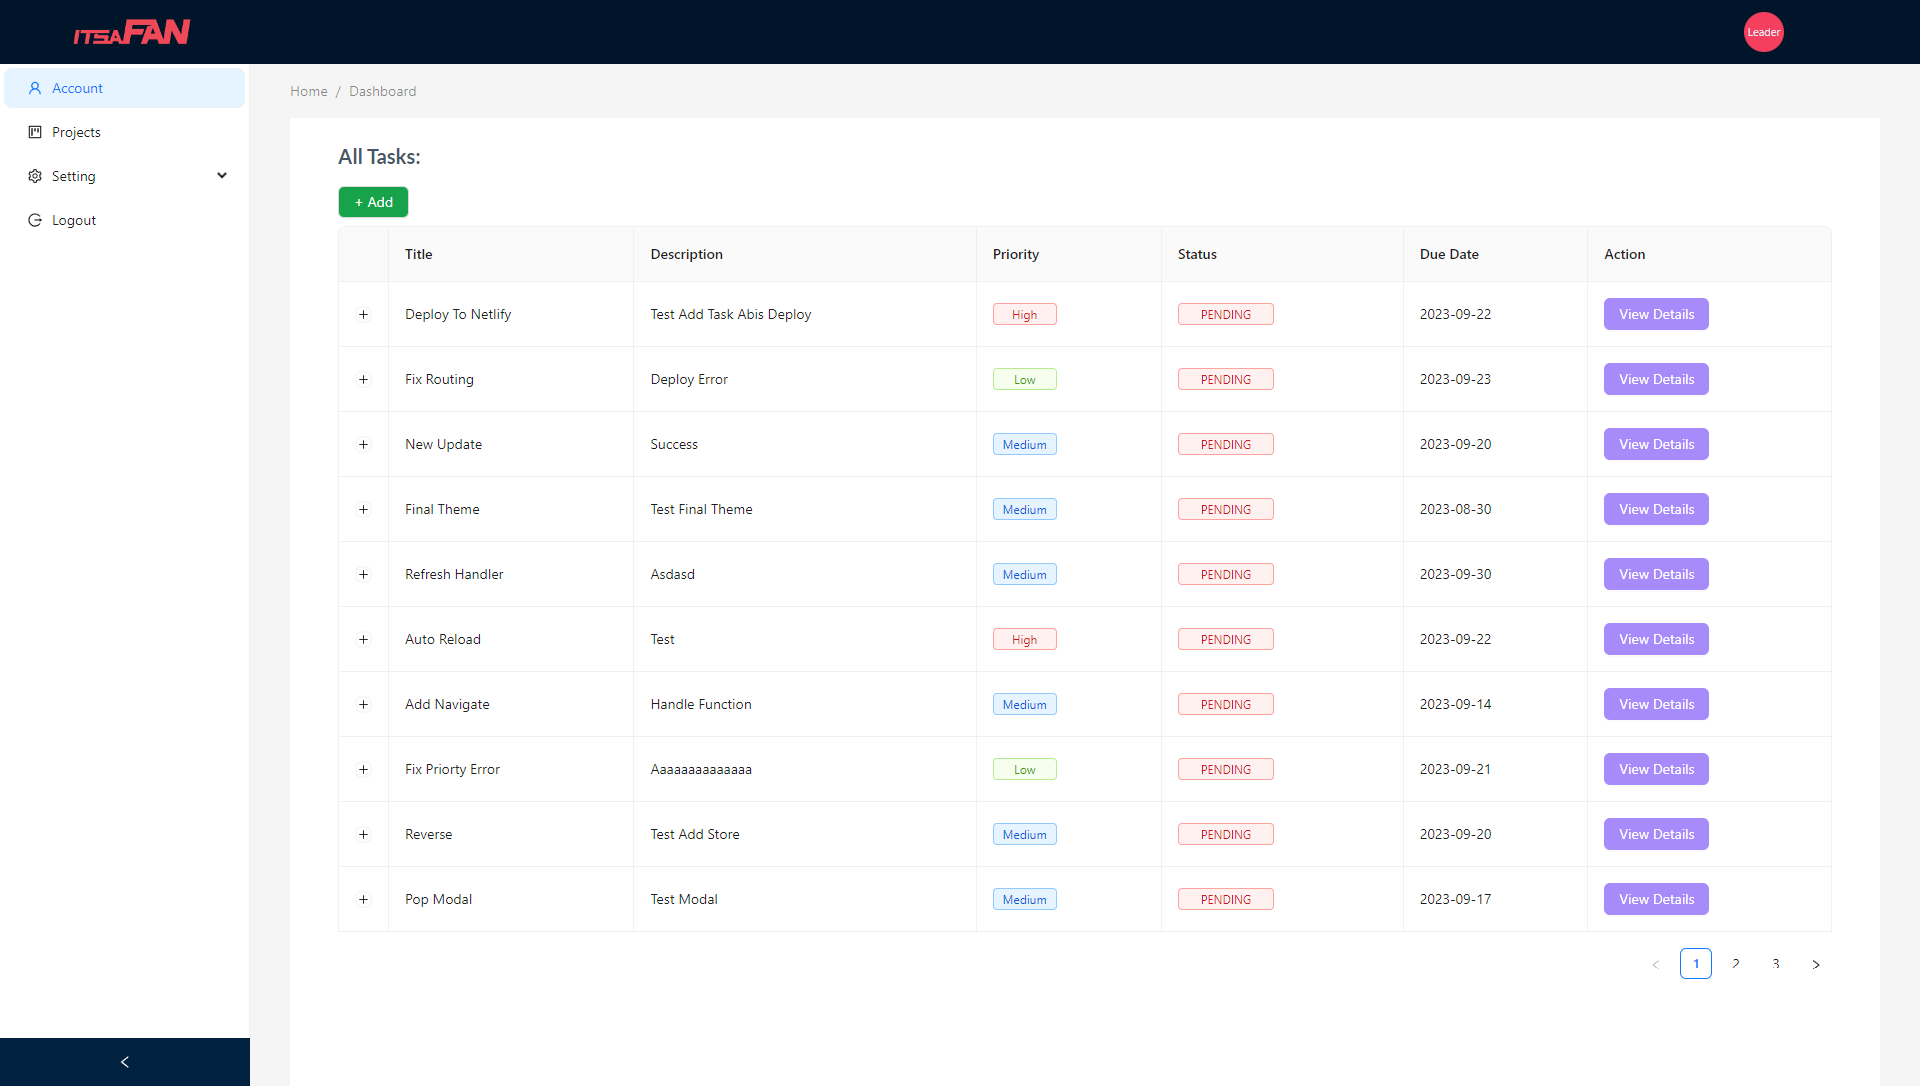
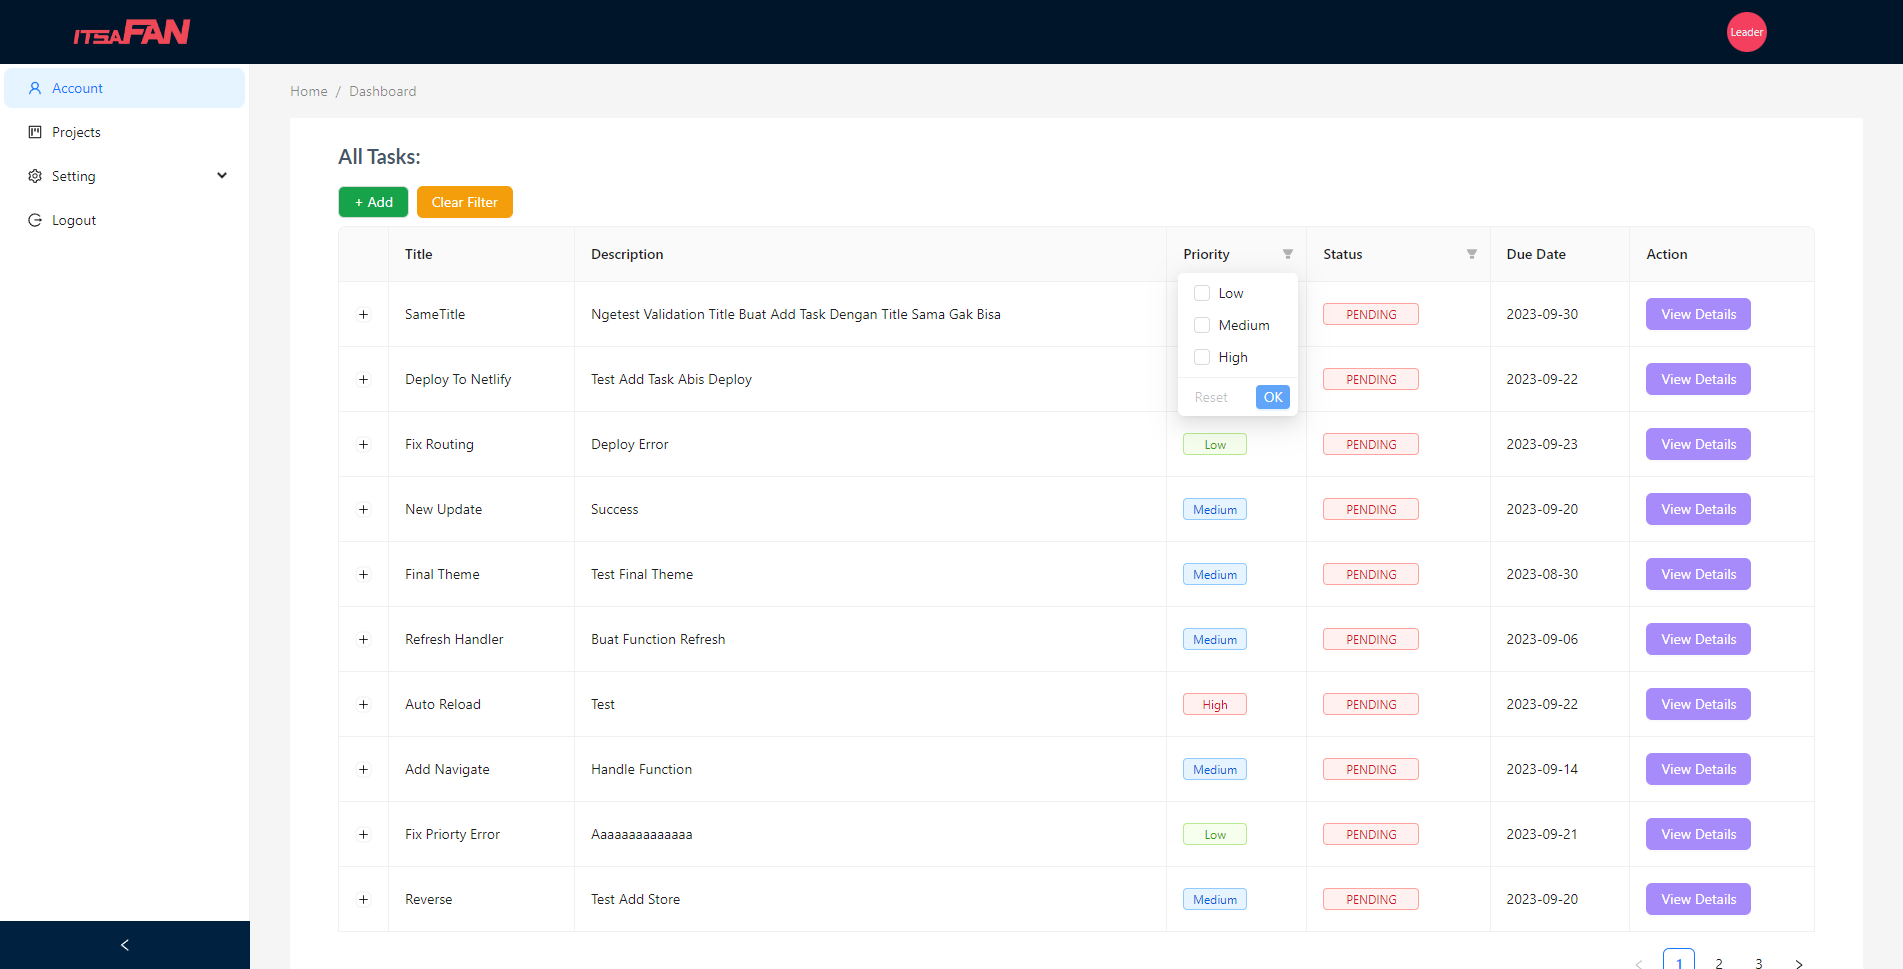
explain added features

diff --git a/README.md b/README.md
@@ -15,10 +15,13 @@ This project is made for RevoU assignment.<br>
 The purpose of this assignment is to learn React conepts and features. Learnig about React Lifecycle methods and how to use them in components. Exploring Hooks and how to use them to manage state and other features. Understand React Context to manage global state in our ap.
 
 - This App Features:
-  - Login
   - Register
+  - Login
   - Show All Tasks
+  - Filter task `priority` and `status`
   - Create Task
+  - Prevent creating the same task `title`
+  - View single task
   - Edit Task
   - Delete Task
   - Token Authorization
@@ -31,18 +34,23 @@ The purpose of this assignment is to learn React conepts and features. Learnig a
 3. Run `npx vite` to start the project.
 4. Visit the link & see further guide there on `landing page`.
 5. Don't forget to login with this data:
+
 ```json
 {
   "username": "Leader",
   "password": "zxc12345"
 }
 ```
+6. You can try register an account, then login with that registered account.
+7. Since default registered account role is set to `user`, you will receive this instead on `Dashboard page`:
+![user login](readme_img/image.png)
 
 ## Website Link
 
 Click here: [Steff-Revou-Week13](https://steff-revou-week13.netlify.app/)
 
 ## Website Preview
+
 <table>
   <tr>
     <td align="center" style="vertical-align: top;">
